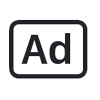
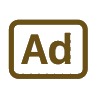
update warna

Changed region(s): [[0.06, 0.18, 0.9, 0.81], [0.21, 0.3, 0.72, 0.66]]

diff --git a/public/assets/css/style.css b/public/assets/css/style.css
@@ -14,12 +14,12 @@
 
 body {
   font-family: "Open Sans", sans-serif;
-  background: #f6f9ff;
+  background: #fffae9;
   color: #444444;
 }
 
 a {
-  color: #4154f1;
+  color: #6a510d;
   text-decoration: none;
 }
 
@@ -56,7 +56,7 @@ h1, h2, h3, h4, h5, h6 {
   font-size: 24px;
   margin-bottom: 0;
   font-weight: 600;
-  color: #012970;
+  color: #6a510d;
 }
 
 /*--------------------------------------------------------------
@@ -226,7 +226,7 @@ h1, h2, h3, h4, h5, h6 {
   padding: 20px 0 15px 0;
   font-size: 18px;
   font-weight: 500;
-  color: #012970;
+  
   font-family: "Poppins", sans-serif;
 }
 .card-title span {
@@ -291,21 +291,21 @@ h1, h2, h3, h4, h5, h6 {
 .breadcrumb {
   font-size: 14px;
   font-family: "Nunito", sans-serif;
-  color: #899bbd;
+  color: #6a510d;
   font-weight: 600;
 }
 .breadcrumb a {
-  color: #899bbd;
+  color: #6a510d;
   transition: 0.3s;
 }
 .breadcrumb a:hover {
   color: #51678f;
 }
 .breadcrumb .breadcrumb-item::before {
-  color: #899bbd;
+  color: #6a510d;
 }
 .breadcrumb .active {
-  color: #51678f;
+  color: #6a510d;
   font-weight: 600;
 }
 
@@ -345,7 +345,7 @@ h1, h2, h3, h4, h5, h6 {
 .logo span {
   font-size: 26px;
   font-weight: 700;
-  color: #012970;
+  color: #6a510d;
   font-family: "Nunito", sans-serif;
 }
 
@@ -363,7 +363,7 @@ h1, h2, h3, h4, h5, h6 {
   font-size: 32px;
   padding-left: 10px;
   cursor: pointer;
-  color: #012970;
+  color: #6a510d;
 }
 .header .search-bar {
   min-width: 360px;
@@ -432,7 +432,7 @@ h1, h2, h3, h4, h5, h6 {
   color: #012970;
 }
 .header-nav .nav-profile {
-  color: #012970;
+  color: #6a510d;
 }
 .header-nav .nav-profile img {
   max-height: 36px;
@@ -599,23 +599,23 @@ h1, h2, h3, h4, h5, h6 {
   align-items: center;
   font-size: 15px;
   font-weight: 600;
-  color: #4154f1;
+  color: #6a510d;
   transition: 0.3;
-  background: #f6f9ff;
+  background: #fff9e9;
   padding: 10px 15px;
   border-radius: 4px;
 }
 .sidebar-nav .nav-link i {
   font-size: 16px;
   margin-right: 10px;
-  color: #4154f1;
+  color: #6a510d;
 }
 .sidebar-nav .nav-link.collapsed {
-  color: #012970;
+  color: #6a510d;
   background: #fff;
 }
 .sidebar-nav .nav-link.collapsed i {
-  color: #899bbd;
+  color: #6a510d;
 }
 .sidebar-nav .nav-link:hover {
   color: #4154f1;
@@ -700,7 +700,7 @@ h1, h2, h3, h4, h5, h6 {
 }
 .dashboard .info-card h6 {
   font-size: 28px;
-  color: #012970;
+  
   font-weight: 700;
   margin: 0;
   padding: 0;
@@ -714,12 +714,12 @@ h1, h2, h3, h4, h5, h6 {
   flex-grow: 0;
 }
 .dashboard .sales-card .card-icon {
-  color: #4154f1;
-  background: #f6f6fe;
+  color: #6a510d;
+  background: #6a510d;
 }
 .dashboard .revenue-card .card-icon {
-  color: #2eca6a;
-  background: #e0f8e9;
+  color: #6a510d;
+  background: #fef9e9;
 }
 .dashboard .customers-card .card-icon {
   color: #ff771d;
@@ -1063,15 +1063,15 @@ h1, h2, h3, h4, h5, h6 {
   padding: 20px 0;
   font-size: 14px;
   transition: all 0.3s;
-  border-top: 1px solid #cddfff;
+  border-top: 1px solid #6a510d;
 }
 .footer .copyright {
   text-align: center;
-  color: #012970;
+  color: #6a510d;
 }
 .footer .credits {
   padding-top: 5px;
   text-align: center;
   font-size: 13px;
-  color: #012970;
+  color: #6a510d;
 }

diff --git a/public/assets2/css/style.css b/public/assets2/css/style.css
@@ -8,9 +8,12 @@
 /*--------------------------------------------------------------
 # General
 --------------------------------------------------------------*/
+main{
+  background-color: #fff9e9;
+}
 body {
   font-family: "Open Sans", sans-serif;
-  color: #555555;
+  color: #6a510d;
 }
 
 a {
@@ -73,7 +76,7 @@ h1, h2, h3, h4, h5, h6 {
   transition: all 0.5s;
   z-index: 997;
   transition: all 0.5s;
-  background: #fff;
+  background: #fff9e9;
   box-shadow: 0 4px 10px -3px rgba(191, 191, 191, 0.5);
 }
 #header .logo h1 {
@@ -371,7 +374,7 @@ section {
 }
 
 .section-bg {
-  background-color: whitesmoke;
+  background-color: #f7f1e1;
 }
 
 .section-title {
@@ -384,11 +387,11 @@ section {
   text-transform: uppercase;
   margin-bottom: 15px;
   padding-bottom: 0;
-  color: #151515;
+  color: #6a510d;
 }
 .section-title p {
   margin-bottom: 0;
-  color: #aeaeae;
+  color: #6a510d;
 }
 
 /*--------------------------------------------------------------
@@ -435,7 +438,7 @@ section {
 }
 .services .icon-box p {
   font-size: 15px;
-  color: #959595;
+  color: #6a510d;
   margin-left: 60px;
 }
 .services .image {

diff --git a/resources/views/layouts/main.blade.php b/resources/views/layouts/main.blade.php
@@ -82,85 +82,13 @@
 
         <li class="nav-item dropdown">
 
-          <a class="nav-link nav-icon" href="#" data-bs-toggle="dropdown">
-            <i class="bi bi-bell"></i>
-            <span class="badge bg-primary badge-number">4</span>
-          </a><!-- End Notification Icon -->
-
-          <ul class="dropdown-menu dropdown-menu-end dropdown-menu-arrow notifications">
-            <li class="dropdown-header">
-              You have 4 new notifications
-              <a href="#"><span class="badge rounded-pill bg-primary p-2 ms-2">View all</span></a>
-            </li>
-            <li>
-              <hr class="dropdown-divider">
-            </li>
-
-            <li class="notification-item">
-              <i class="bi bi-exclamation-circle text-warning"></i>
-              <div>
-                <h4>Lorem Ipsum</h4>
-                <p>Quae dolorem earum veritatis oditseno</p>
-                <p>30 min. ago</p>
-              </div>
-            </li>
-
-            <li>
-              <hr class="dropdown-divider">
-            </li>
-
-            <li class="notification-item">
-              <i class="bi bi-x-circle text-danger"></i>
-              <div>
-                <h4>Atque rerum nesciunt</h4>
-                <p>Quae dolorem earum veritatis oditseno</p>
-                <p>1 hr. ago</p>
-              </div>
-            </li>
-
-            <li>
-              <hr class="dropdown-divider">
-            </li>
-
-            <li class="notification-item">
-              <i class="bi bi-check-circle text-success"></i>
-              <div>
-                <h4>Sit rerum fuga</h4>
-                <p>Quae dolorem earum veritatis oditseno</p>
-                <p>2 hrs. ago</p>
-              </div>
-            </li>
-
-            <li>
-              <hr class="dropdown-divider">
-            </li>
-
-            <li class="notification-item">
-              <i class="bi bi-info-circle text-primary"></i>
-              <div>
-                <h4>Dicta reprehenderit</h4>
-                <p>Quae dolorem earum veritatis oditseno</p>
-                <p>4 hrs. ago</p>
-              </div>
-            </li>
-
-            <li>
-              <hr class="dropdown-divider">
-            </li>
-            <li class="dropdown-footer">
-              <a href="#">Show all notifications</a>
-            </li>
-
-          </ul><!-- End Notification Dropdown Items -->
+        
 
         </li><!-- End Notification Nav -->
 
         <li class="nav-item dropdown">
 
-          <a class="nav-link nav-icon" href="#" data-bs-toggle="dropdown">
-            <i class="bi bi-chat-left-text"></i>
-            <span class="badge bg-success badge-number">3</span>
-          </a><!-- End Messages Icon -->
+         
 
           <ul class="dropdown-menu dropdown-menu-end dropdown-menu-arrow messages">
             <li class="dropdown-header">

diff --git a/resources/views/dashboard.blade.php b/resources/views/dashboard.blade.php
@@ -33,7 +33,7 @@
                   <h5 class="card-title">Reklame <span>| Bulan Ini</span></h5>
 
                   <div class="d-flex align-items-center">
-                    <div class="card-icon rounded-circle d-flex align-items-center justify-content-center" style="background: #e0f8e9">
+                    <div class="card-icon rounded-circle d-flex align-items-center justify-content-center" style="background: #fef9e9">
                       <img src="assets/img/ad.png" style="max-width: 40px;">
                     </div>
                     <div class="ps-3">
@@ -107,7 +107,7 @@
 
                   <div class="d-flex align-items-center">
                     <div class="card-icon rounded-circle d-flex align-items-center justify-content-center">
-                      <i class="bi bi-gender-ambiguous"></i>
+                      <i class="bi bi-gender-ambiguous" style="color: #6a510d"></i>
                     </div>
                     <div class="ps-3">
                        <h6>{{ $data[3] }}</h6>
@@ -157,7 +157,7 @@
 
                   <div class="d-flex align-items-center">
                     <div class="card-icon rounded-circle d-flex align-items-center justify-content-center">
-                      <i class="bi bi-house-fill"></i>
+                      <i class="bi bi-house-fill" style="color: #6a510d"></i>
                     </div>
                     <div class="ps-3">
                        <h6>{{ $data[5] }}</h6>

diff --git a/resources/views/layouts/front.blade.php b/resources/views/layouts/front.blade.php
@@ -68,7 +68,15 @@
           <li><a class="nav-link scrollto" href="#team">Team</a></li>
         
           <li><a class="nav-link scrollto" href="#contact">Contact</a></li>
-            <li><a class="nav-link scrollto" href="{{URL::to('/login') }}">Login</a></li>
+
+            <li><a class="nav-link scrollto" href="{{URL::to('/login') }}">
+              @if(Auth::id())
+              Dashboard
+              @else
+              Login
+              @endif
+            </a></li>
+
         </ul>
         <i class="bi bi-list mobile-nav-toggle"></i>
       </nav><!-- .navbar -->

diff --git a/resources/views/style/table_style.blade.php b/resources/views/style/table_style.blade.php
@@ -128,4 +128,13 @@ table.table td i {
     margin-top: 10px;
     font-size: 13px;
 }
+
+.page-item.active .page-link{
+    background-color: #6a510d;
+}
+
+.btn-primary{
+    background-color: #6a510d;
+    border-color: #d8cdae;
+}
 </style>
